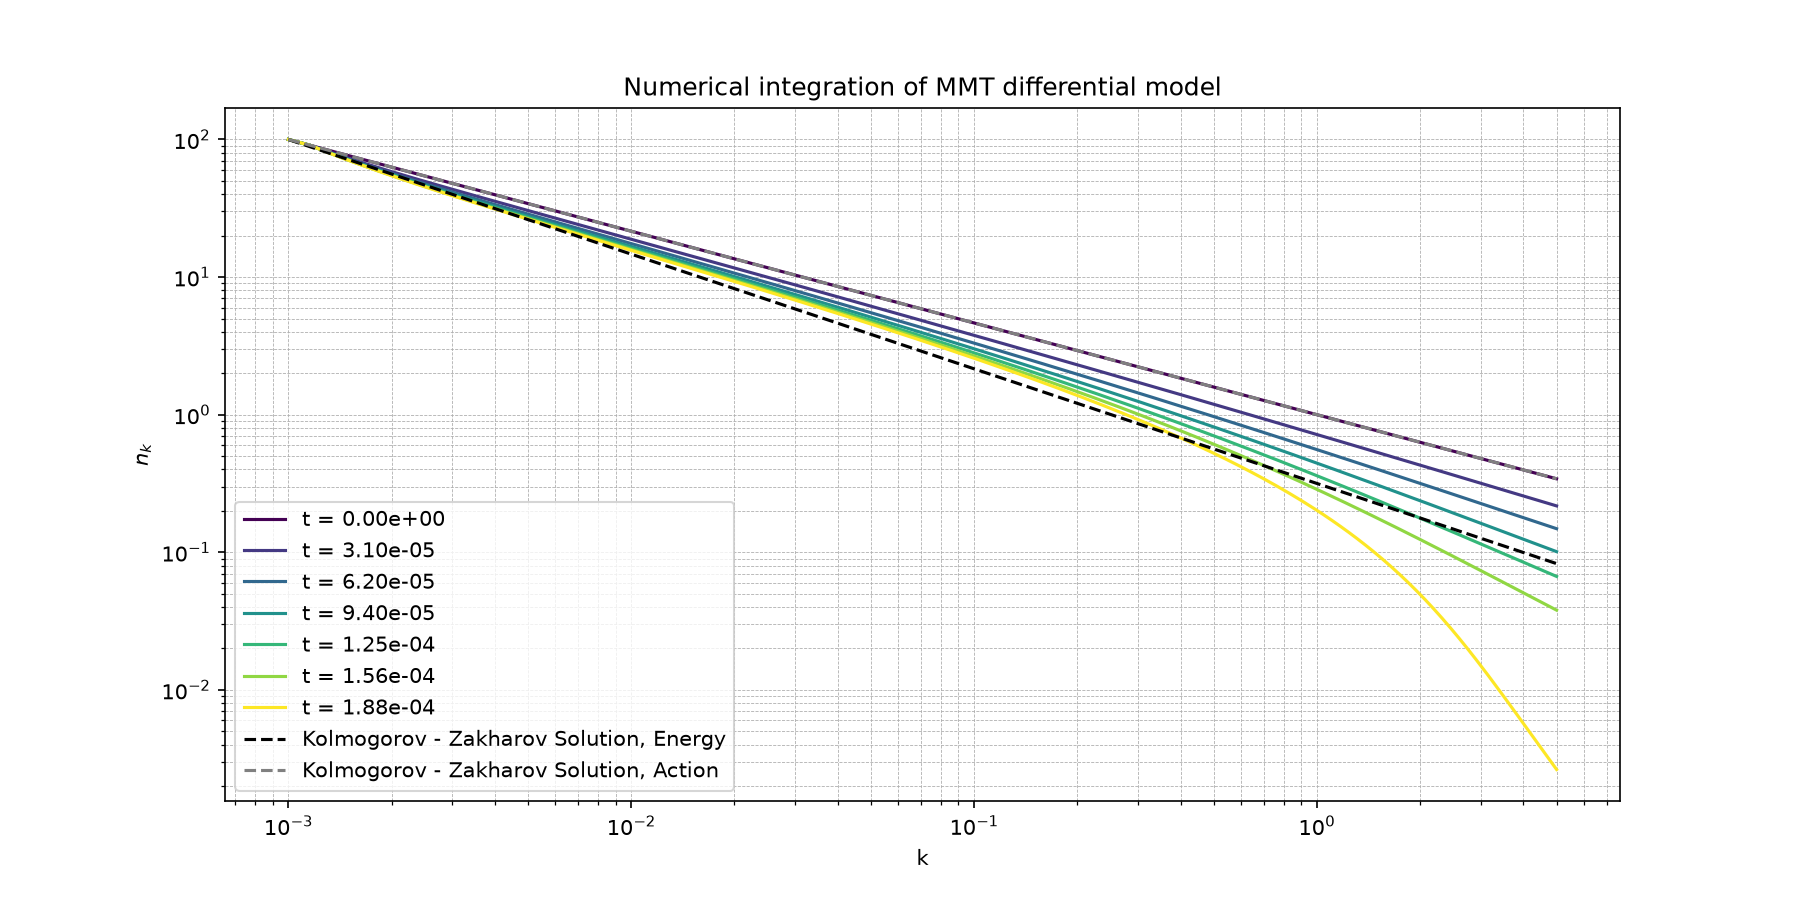
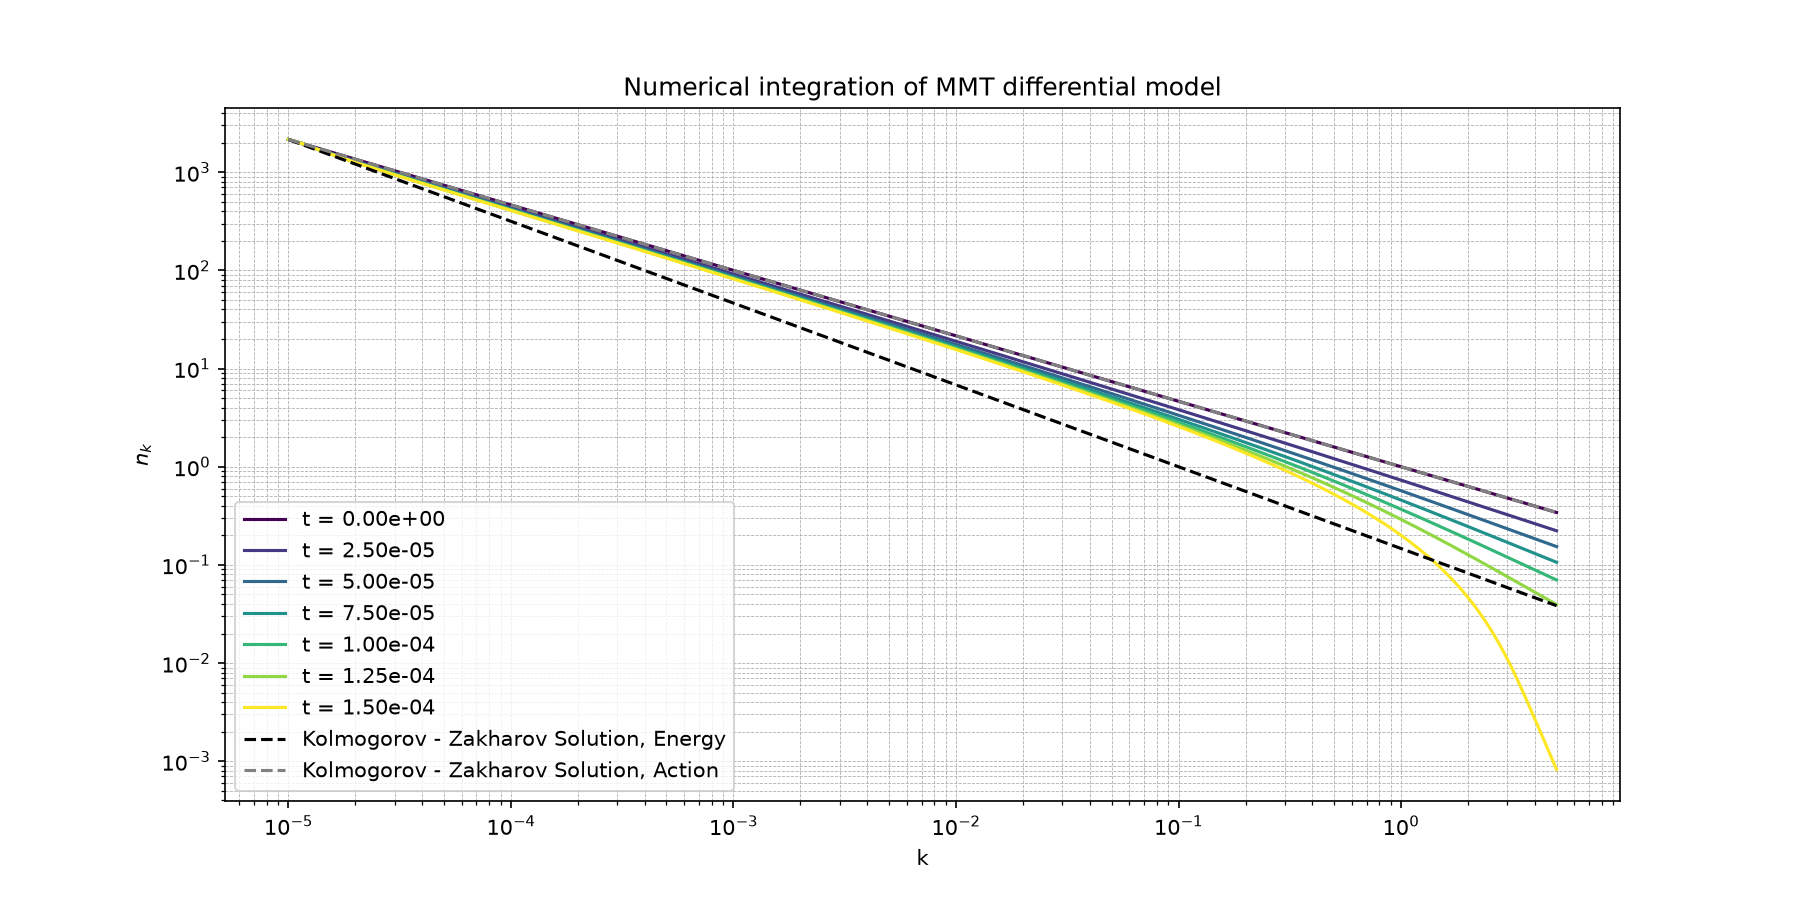
Increase resolution in k_space function and update output images for results

diff --git a/main_DAM.py b/main_DAM.py
@@ -5,7 +5,7 @@ from scipy.integrate import solve_ivp
 eta1 = 216
 eta2 = 162
 
-k, dlnk = k_space(1e-3, 5, 300)
+k, dlnk = k_space(1e-3, 5, 500)
 k0 = k[135] 
 
 n_k = initial_condition(1.0, k, -2/3)
